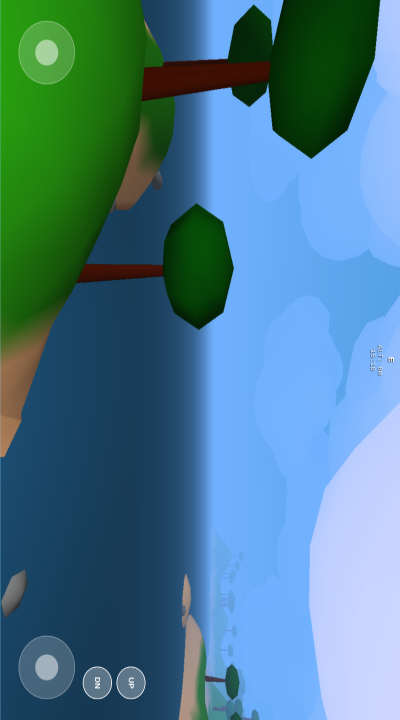
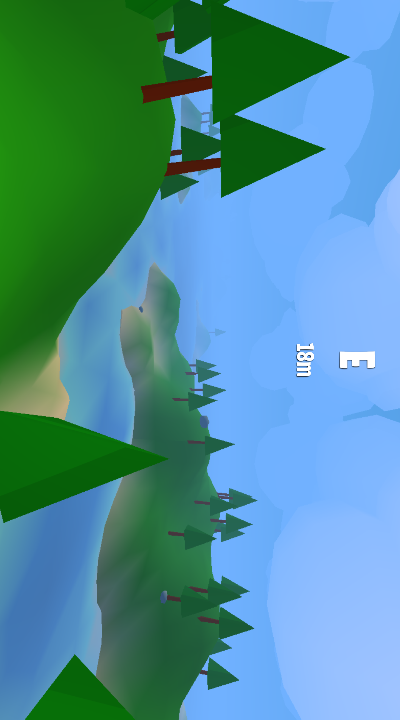
Refactored from GitHub.

diff --git a/index.html b/index.html
@@ -18,7 +18,7 @@
 			rel="stylesheet">
 		<meta charset="UTF-8">
 		<meta
-			content="LightSkyBlue"
+			content="Black"
 			name="theme-color"
 		>
 		<meta
@@ -149,10 +149,8 @@
 			<div class="btn" id="btn-jump">Jump</div>
 		</div>
 
-		<script
-			src="https://cdnjs.cloudflare.com/ajax/libs/three.js/0.158.0/three.min.js"></script>
-
-		<script>
+		<script defer type="module">
+		import * as THREE from 'https://cdnjs.cloudflare.com/ajax/libs/three.js/0.185.1/three.module.min.js'
 		const CYCLE_DURATION = 5 * 60000
 		const scene = new THREE.Scene()
 
@@ -485,7 +483,7 @@
 			)
 		}
 
-		const CHUNK_SIZE = 64, CHUNK_RES = 32, RENDER_DISTANCE = 3
+		const CHUNK_SIZE = 64, CHUNK_RES = 16, RENDER_DISTANCE = 3
 		const chunks = new Map()
 		const seedOffset = Math.random() * 1000
 		const colorSnow = new THREE.Color(0xeeeeff),
@@ -503,36 +501,16 @@
 			clippingPlanes: [terrainClippingPlane],
 		})
 
+		// InstancedMesh Setup
+		const treeTrunkGeo = new THREE.CylinderGeometry(0.2, 0.4, 6, 3)
+		const treeLeafGeo = new THREE.ConeGeometry(2, 7, 3)
+		const boulderGeo = new THREE.SphereGeometry(1, 6, 3) // Default size, scale in matrices
+
 		function getTerrainHeight(x, z) {
 			const rawHeight = simplexNoise(x, z, seedOffset)
 			return rawHeight < 0.0
 				? -Math.pow(Math.abs(rawHeight), 0.9) * 2.0 - 10.0
 				: rawHeight * 0.8 - 10
-		}
-
-		function createTree(x, y, z) {
-			const group = new THREE.Group()
-			const trunk = new THREE.Mesh(
-				new THREE.CylinderGeometry(0.2, 0.4, 6, 3),
-				trunkMat,
-			)
-			trunk.position.y = 2.5
-			const leaf = new THREE.Mesh(new THREE.ConeGeometry(2, 7, 3), leafMat)
-			leaf.scale.set(1.2, 0.8, 1.2)
-			leaf.position.set(0, 6, 0)
-			group.add(trunk, leaf)
-			group.position.set(x, y, z)
-			return group
-		}
-
-		function createBoulder(x, y, z) {
-			const boulder = new THREE.Mesh(
-				new THREE.SphereGeometry(Math.max(0.3, 2 * Math.random()), 6, 3),
-				boulderMat,
-			)
-			boulder.position.set(x, y + 0.15, z)
-			boulder.scale.set(1, 0.7, 1)
-			return boulder
 		}
 
 		function createChunk(cx, cz) {
@@ -545,7 +523,9 @@
 			geo.rotateX(-Math.PI / 2)
 			const vertices = geo.attributes.position.array
 			const colors = []
-			const chunkGroup = new THREE.Group()
+
+			const treeMatrices = []
+			const boulderMatrices = []
 
 			for (let i = 0; i < vertices.length; i += 3) {
 				const worldX = vertices[i] + cx * CHUNK_SIZE
@@ -577,11 +557,17 @@
 
 				if (Math.random() < 0.1 && height < 15) {
 					if (height > 3 || (height > -1 && Math.random() < 0.01)) {
-						chunkGroup.add(createTree(worldX, height, worldZ))
+						const mat = new THREE.Matrix4()
+						mat.setPosition(worldX, height + 2.5, worldZ)
+						treeMatrices.push(mat)
 					}
 				}
 				if (Math.random() < 0.01 && height > -20) {
-					chunkGroup.add(createBoulder(worldX, height, worldZ))
+					const mat = new THREE.Matrix4()
+					const s = Math.max(0.3, 2 * Math.random())
+					mat.makeScale(s, s * 0.7, s)
+					mat.setPosition(worldX, height + 0.15, worldZ)
+					boulderMatrices.push(mat)
 				}
 			}
 			geo.computeVertexNormals()
@@ -594,8 +580,44 @@
 				}),
 			)
 			mesh.position.set(cx * CHUNK_SIZE, 0, cz * CHUNK_SIZE)
+
 			const container = new THREE.Group()
-			container.add(mesh, chunkGroup)
+			container.add(mesh)
+
+			if (treeMatrices.length > 0) {
+				const iTrunks = new THREE.InstancedMesh(
+					treeTrunkGeo,
+					trunkMat,
+					treeMatrices.length,
+				)
+				const iLeaves = new THREE.InstancedMesh(
+					treeLeafGeo,
+					leafMat,
+					treeMatrices.length,
+				)
+				treeMatrices.forEach((m, i) => {
+					iTrunks.setMatrixAt(i, m)
+					const leafM = m.clone().setPosition(
+						m.elements[12],
+						m.elements[13] + 3.5,
+						m.elements[14],
+					)
+					leafM.scale(new THREE.Vector3(1.2, 0.8, 1.2))
+					iLeaves.setMatrixAt(i, leafM)
+				})
+				container.add(iTrunks, iLeaves)
+			}
+
+			if (boulderMatrices.length > 0) {
+				const iBoulders = new THREE.InstancedMesh(
+					boulderGeo,
+					boulderMat,
+					boulderMatrices.length,
+				)
+				boulderMatrices.forEach((m, i) => iBoulders.setMatrixAt(i, m))
+				container.add(iBoulders)
+			}
+
 			scene.add(container)
 			return container
 		}
@@ -634,7 +656,8 @@
 		}
 		camera.position.set(spawnX, 10, spawnZ)
 
-		const oceanGeo = new THREE.PlaneGeometry(1000, 1000, 768, 768)
+		// Ocean Optimization: Lower resolution (128x128)
+		const oceanGeo = new THREE.PlaneGeometry(1000, 1000, 128, 128)
 		oceanGeo.rotateX(-Math.PI / 2)
 		const oceanMat = new THREE.ShaderMaterial({
 			uniforms: {
@@ -1115,6 +1138,7 @@
 		const COLOR_LERP_SPEED = 0.005
 		let isFirstFrame = true, gamepadIndex = null
 		let footstepTimer = 0
+		let lastHudUpdate = 0
 
 		window.addEventListener('gamepadconnected', (e) => {
 			if (gamepadIndex === null) gamepadIndex = e.gamepad.index
@@ -1445,7 +1469,12 @@
 			updateClouds()
 			updateBirds(delta, time)
 			updateFish(delta, time)
-			updateHUD(time)
+
+			if (now - lastHudUpdate > 200) {
+				updateHUD(time)
+				lastHudUpdate = now
+			}
+
 			if (audioStarted) {
 				noiseGain.gain.setTargetAtTime(
 					Math.max(0, Math.min(0.2, 0.2 * (1 - (camera.position.y / 10)))),
@@ -1466,7 +1495,6 @@
 			renderer.render(postScene, postCamera)
 			prevTime = now
 		}
-		animateFixed()
 
 		window.addEventListener('resize', () => {
 			camera.aspect = window.innerWidth / window.innerHeight
@@ -1490,10 +1518,9 @@
 			document.getElementById('look-joy').style.display = 'block'
 			document.getElementById('height-controls').style.display = 'flex'
 		}
-		navigator.serviceWorker.register('work.js')
 
 		// START SEQUENCE
-		window.addEventListener('load', () => {
+		window.addEventListener('DOMContentLoaded', () => {
 			const overlay = document.getElementById('intro-overlay')
 			let radius = 0
 			const duration = 3000
@@ -1519,8 +1546,11 @@
 					setTimeout(() => overlay.remove(), 1000)
 				}
 			}
+			animateFixed()
 			expand()
 		})
+
+		navigator.serviceWorker.register('work.js')
 		</script>
 	</body>
 </html>
